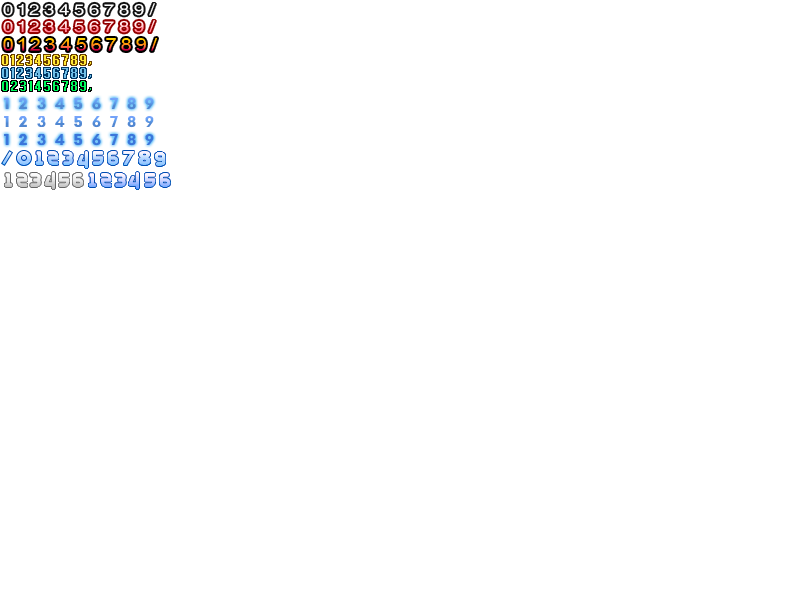
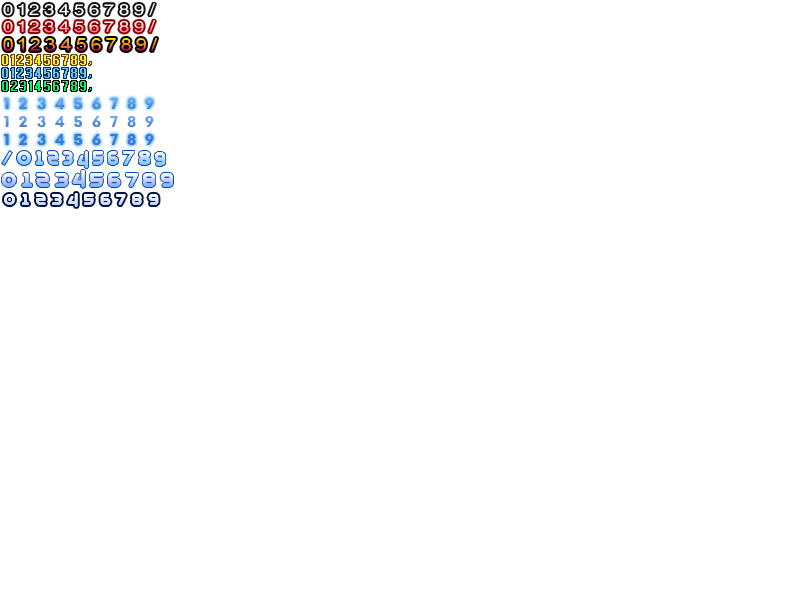
'clean'

Changed region(s): [[0.0, 0.27, 0.2188, 0.36]]

diff --git a/resources/css/DragonBound.min.css b/resources/css/DragonBound.min.css
@@ -5809,23 +5809,20 @@ a:active {
 .font{
     display: flex;
     align-items: center;
-    justify-content: center;
-    font-size: 12px;
-    transform: scale(1.4,1.7);
+    /*font-size: 16px;*/
+    justify-content: space-between;
+    transform: scale(1,1.2);
     transform-origin: left;
 }
 .font-S3:first-child{
     position: absolute;
     font-family: 'S3';
+    color: #fff;
     color: #49475C;
 }
 .font-S3:last-child{
     font-family: 'S4';
-    color: #ffffff;
-}
-.font-S3:first-child,
-.font-S3:last-child{
-    letter-spacing: -1.3px;
+    color: #fff;
 }
 .font-size-dialog {
     font-size: 16px;
@@ -6320,31 +6317,30 @@ a:active {
 .server__name-container{
     display: flex;
     flex-direction: row;
-    gap: 19px;
+    gap: 10px;
     position: absolute;
     top: 8px;
-    left: 12px;
+    left: 10px;
     align-items: center;
 }
 .server__name-number{
-    width: 14px;
+    width: 17px;
     height: 20px;
 }
 .server__name-number-1{
-    background-position: -85px -172px;
+    background-position: -17px -172px;
 }
 .server__name-number-2{
-    background-position: -99px -172px;
+    background-position: -33px -172px;
 }
 .server__name-number-3{
-    background-position: -113px -172px;
+    background-position: -52px -172px;
 }
 .server__name-number-4{
-    background-position: -128px -171px
+    background-position: -71px -169px
 }
 .server__name-Get{
-    color: white;   
-    font-size: 12px;
+    color: white;
     text-transform: capitalize;
 }
 .server___rank{
@@ -7368,13 +7364,13 @@ a:active {
 #myName4{
     position: absolute;
     left: 711px;
-    top: 176px;
-    transform: scale(1.4,1.4);
+    top: 173px;
+    transform: scale(1.1,1.2);
 }
 #myName2 {
     position: absolute;
     left: 708px;
-    top: 175px;
+    top: 174px;
 }
 #myGPBar{
     position: absolute;
